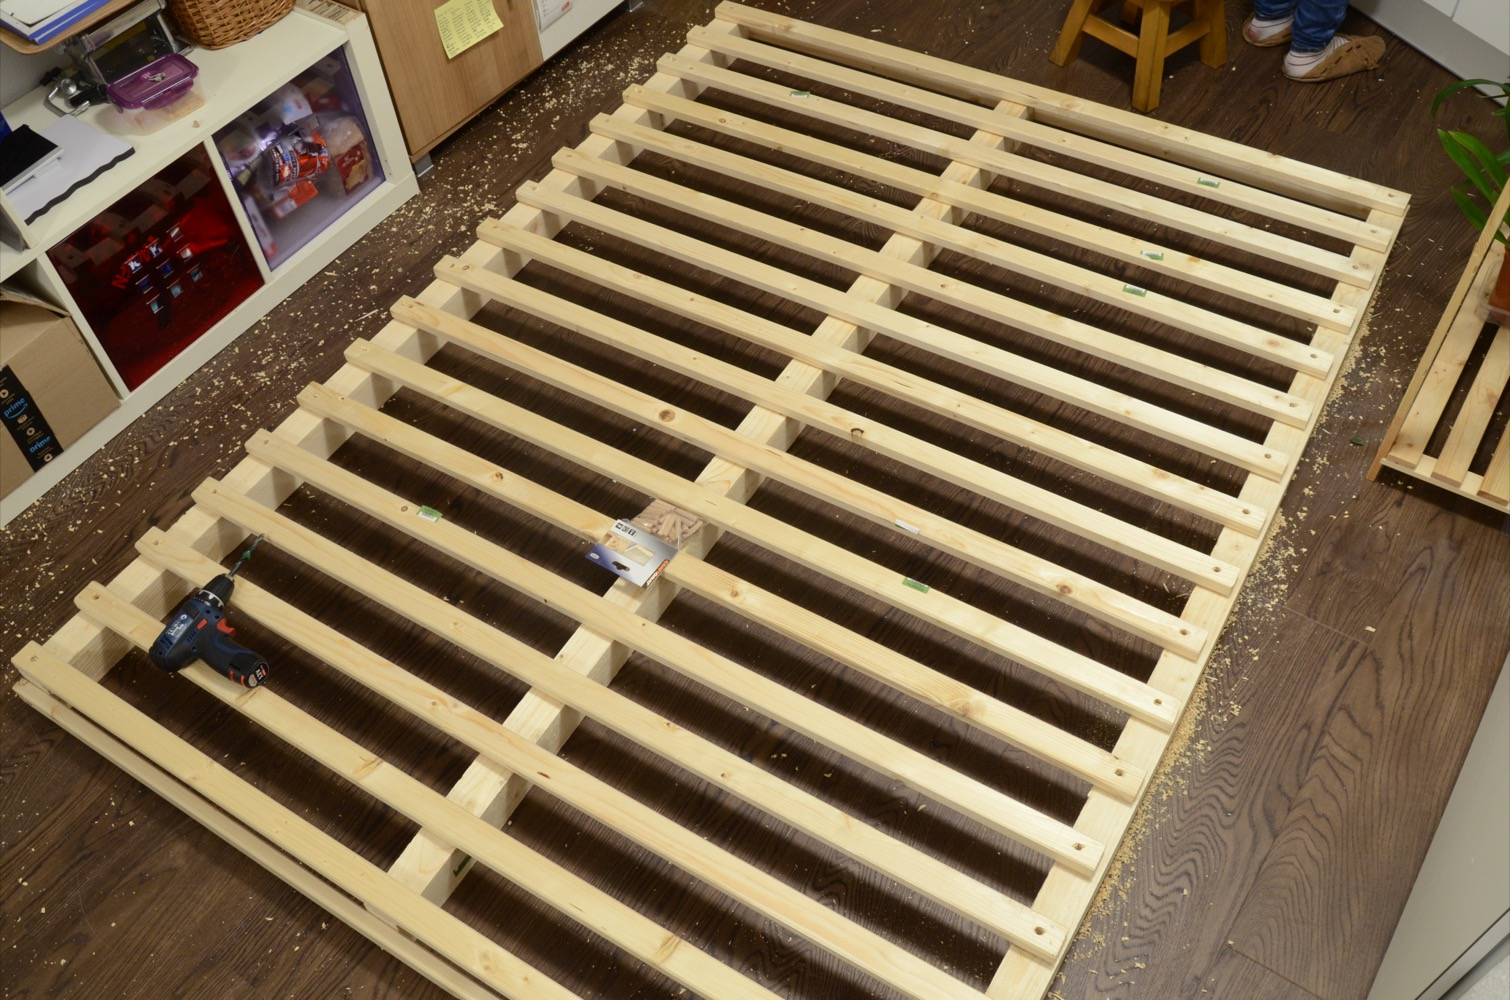
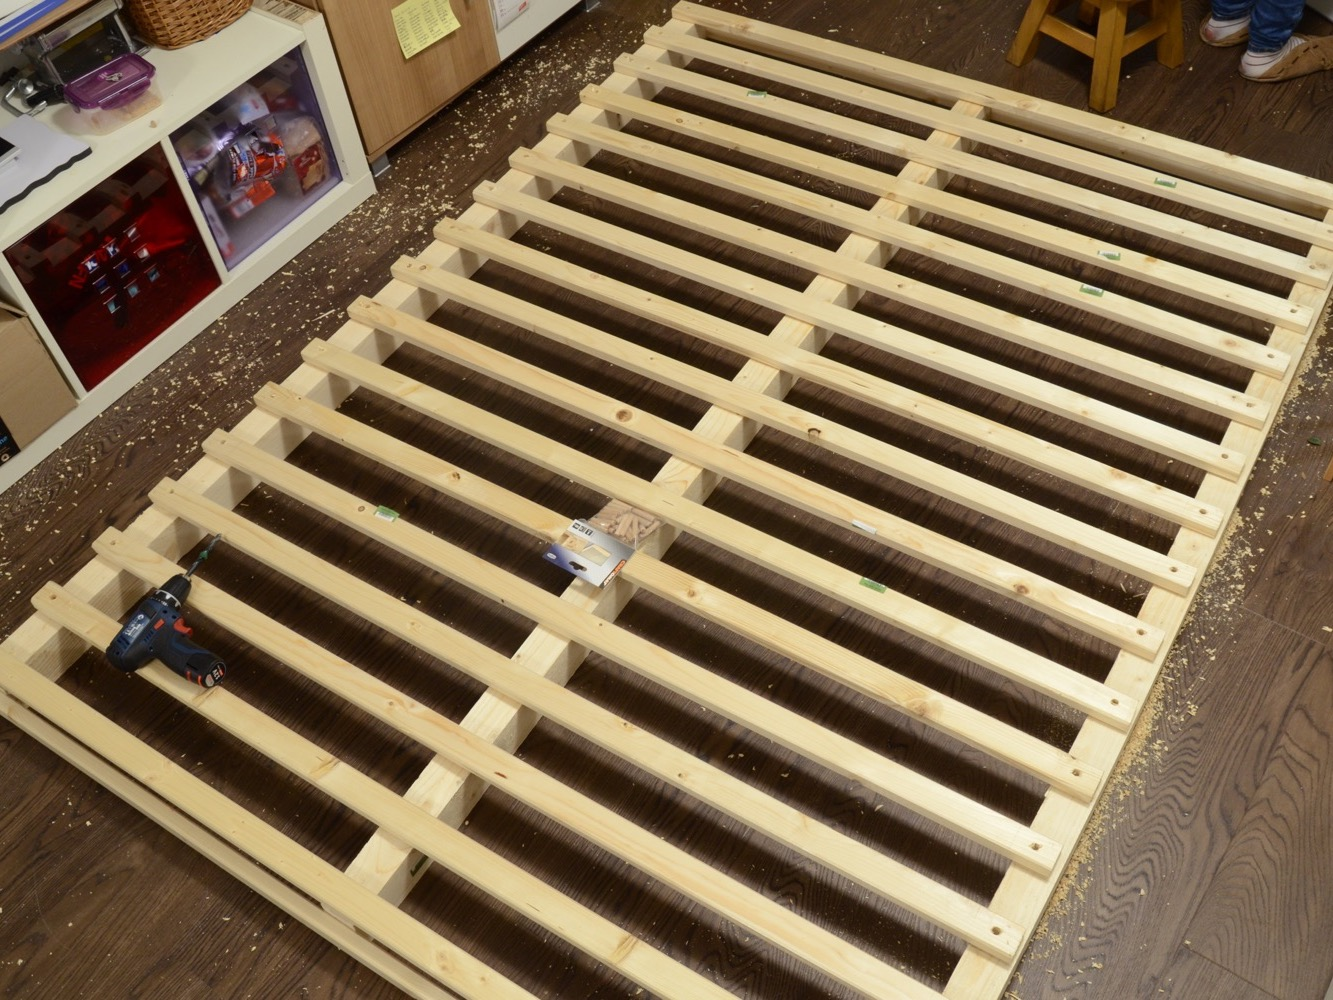
use webp instead of gif

diff --git a/source/_posts/2019-10-13-Bett.md b/source/_posts/2019-10-13-Bett.md
@@ -14,9 +14,7 @@ tags: day-hack
 {% asset_img DSC_6319.JPG 350 %}
 
 首先将木板摆放整齐、标记定位、依次打孔、插入木销。木销在底端是紧配合，与龙骨是松配合。
-{% asset_img DSC_6345.JPG 350 %}
-{% asset_img IMG_0816.JPG 350 %}
-{% asset_img IMG_0817.JPG 350 %}
+{% asset_img out.webp 350 %}
 
 整个设计只用4个螺丝在4个脚进行固定，拆装非常方便。
 {% asset_img IMG_0825.JPG 350 %}
